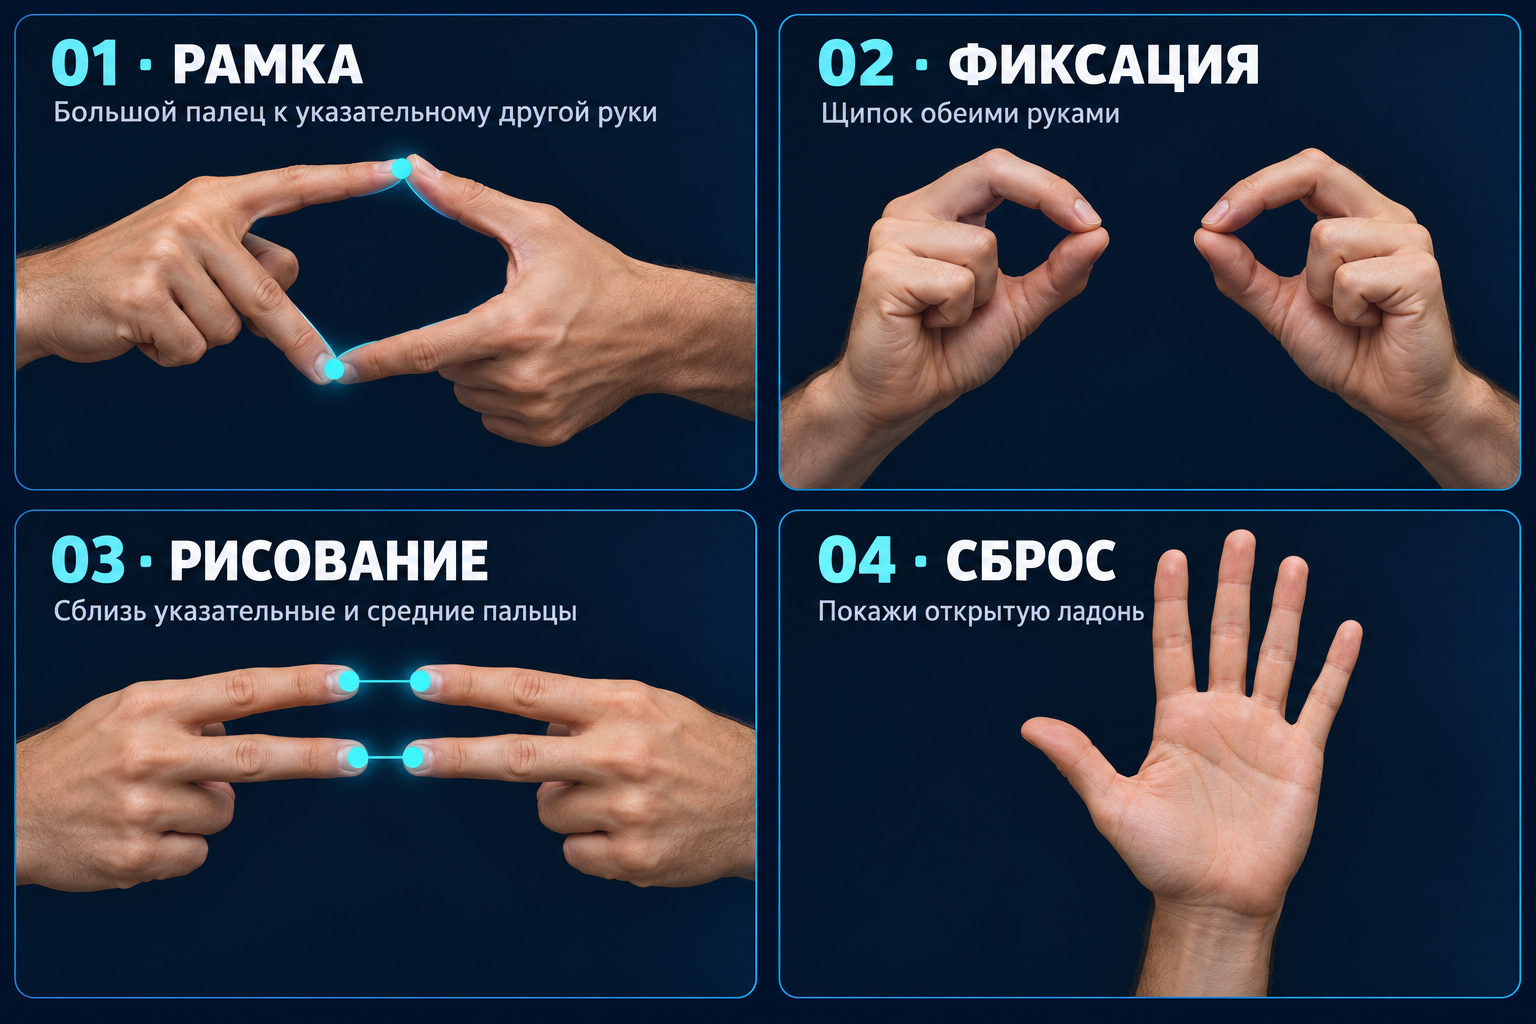
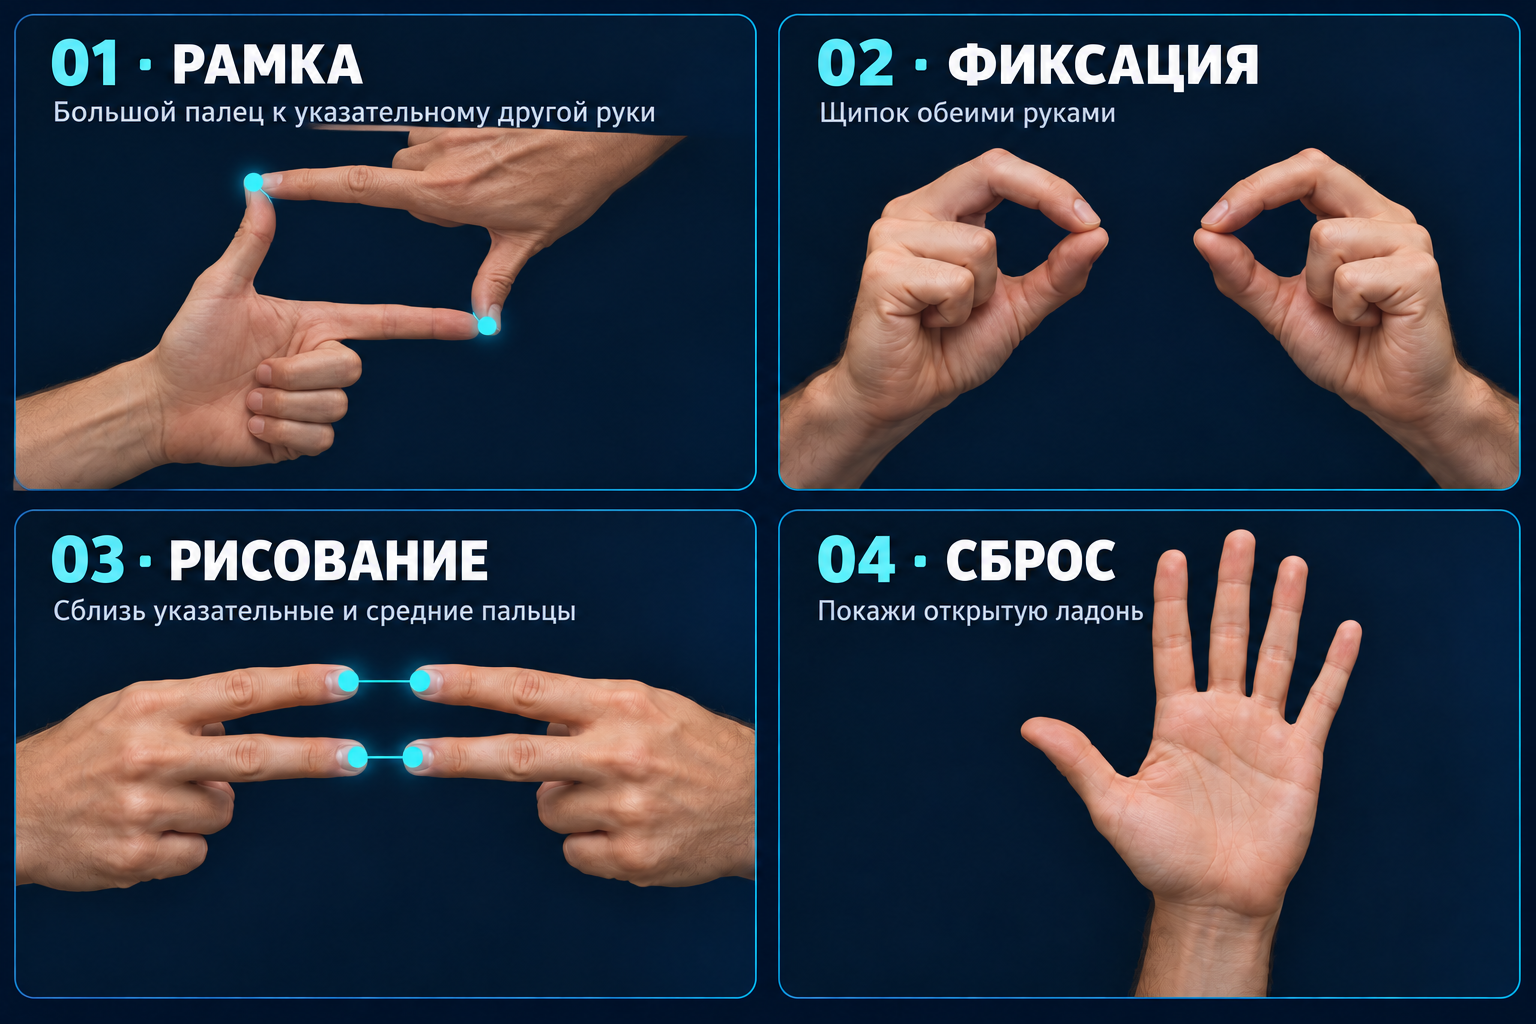
docs: correct finger frame illustration using pose reference

diff --git a/docs/gesture-guide-prompt.md b/docs/gesture-guide-prompt.md
@@ -6,3 +6,9 @@ not photographs of the application or evidence of recognition accuracy.
 ## Generation prompt
 
 Create a polished instructional reference sheet for a GitHub webcam hand-gesture project, landscape 1536x1024, 2 by 2 cards on dark navy background. Photorealistic anatomically correct adult hands only, no faces, crisp warm studio lighting, clear gestures. Each card has ONLY the following Russian heading and short subtitle. Card 1 upper left: '01 · РАМКА', subtitle 'Большой палец к указательному другой руки'. Show two hands forming a small closed rectangular/diamond camera director frame: index fingertip of EACH hand touches THUMB TIP of the opposite hand, two opposite contact points, other fingers naturally curled out of way. Highlight two contact points with small cyan dots, subtle cyan outline between thumb/index joints. Card 2 upper right: '02 · ФИКСАЦИЯ', subtitle 'Щипок обеими руками'. Two separated hands, each thumb and index fingertip touching each other making a pinch/OK circle, both hands simultaneously. Card 3 lower left: '03 · РИСОВАНИЕ', subtitle 'Сблизь указательные и средние пальцы'. Show two hands held close together, each has extended index AND middle fingers, other fingers curled. Fingertip pairs matching finger type are close to each other (left index near right index, left middle near right middle), like paired two-finger gestures facing each other, highlight TWO matched fingertip pairs cyan. Card 4 lower right: '04 · СБРОС', subtitle 'Покажи открытую ладонь'. One open palm facing viewer, all five fingers visible and spread naturally. Typography clean large white sans serif, cyan number accents. Maintain enough whitespace. This is an illustrative gesture tutorial, no fake application screenshots, no logos, no watermark. Hands must have plausible anatomy and correct number of fingers.
+
+## Correction: rectangular frame
+
+Edited with the built-in imagegen tool, using the user's hand-pose reference.
+
+Edit image 1 (the dark four-panel gesture guide) ONLY inside its upper-left card's hand photograph. Image 2 (hands on white) is the anatomical pose reference. Replace incorrect diamond gesture with EXACT rectangular director's frame pose from image 2: lower-left hand palm faces viewer, thumb points vertically UP along LEFT edge, index finger extends horizontally RIGHT along BOTTOM edge, middle/ring/pinky curled into palm. Upper-right hand back faces viewer, index extends horizontally LEFT along TOP edge, thumb points vertically DOWN along RIGHT edge, other three fingers curled. Upper hand INDEX TIP touches lower hand THUMB TIP at top-left corner; upper hand THUMB TIP touches lower hand INDEX TIP at bottom-right corner. Rectangular empty space center, NOT diamond. Copy pose and anatomy faithfully, correct five fingers per hand. Match original dark navy background and warm photo lighting, cyan dots on two contact corners optional. Fit whole gesture below the first card subtitle. Preserve ALL typography, dimensions, borders, other three cards and their hands exactly. No other edits.
